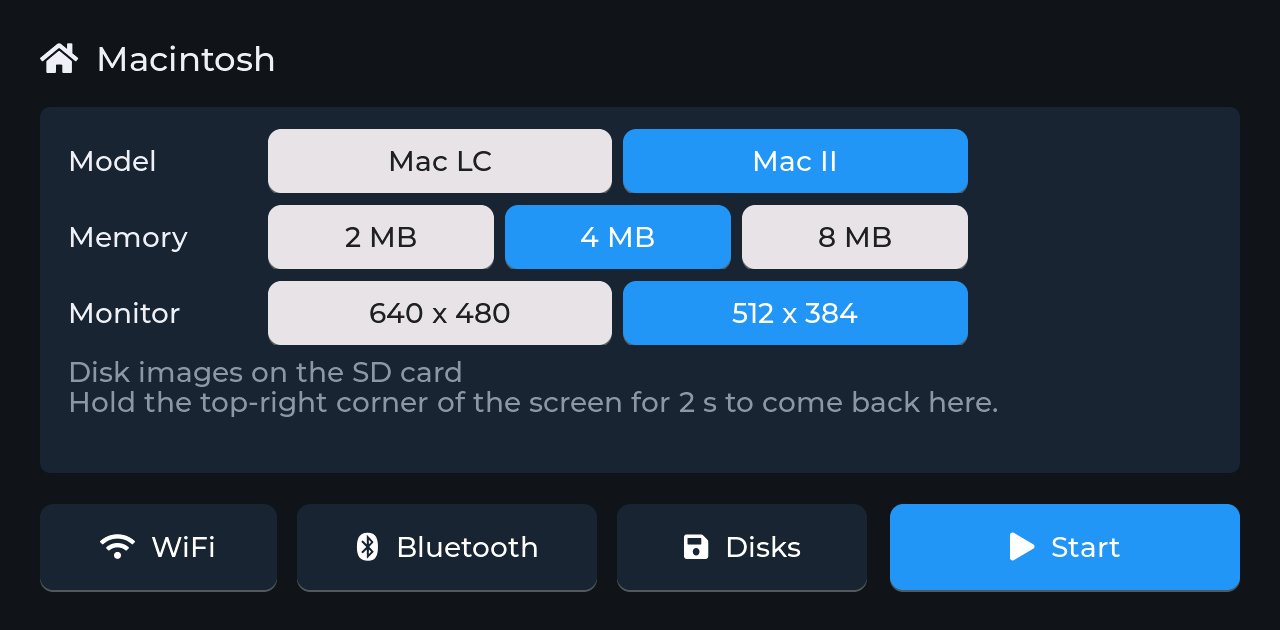
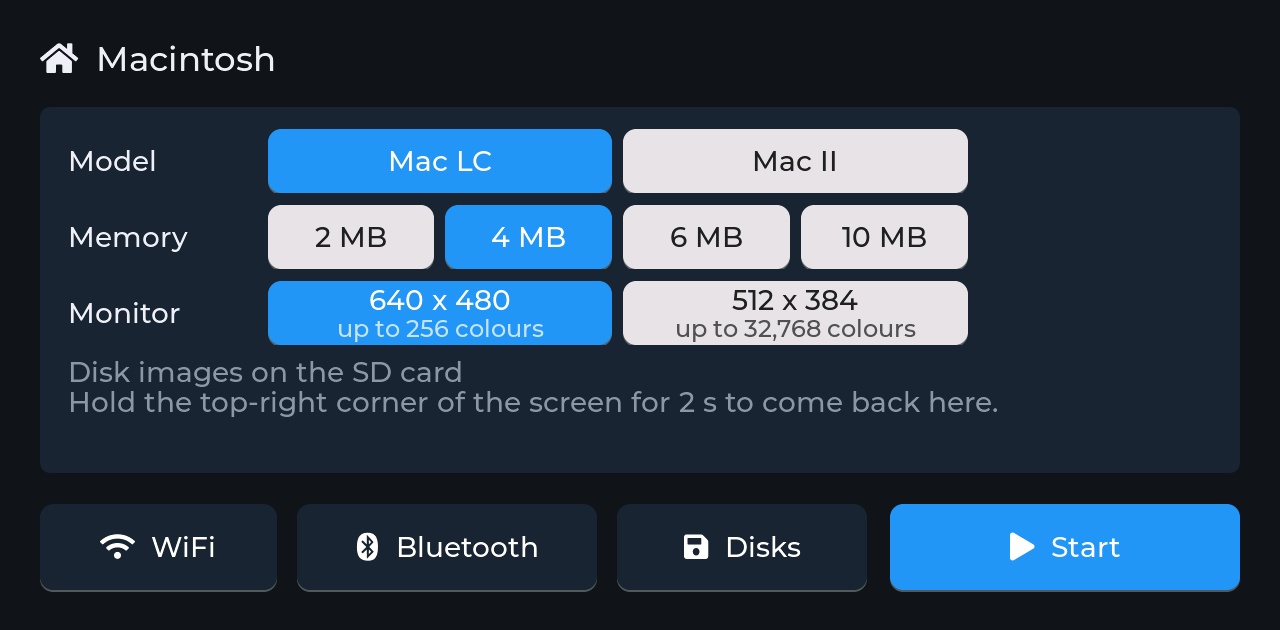
12-inch monitor in colour; the Monitor buttons say how many colours
- The ROMs keep the slot's video PRAM only while it matches the monitor:
  with the 12" monitor they reset the mode to black and white.
  mac_pram_monitor() writes the monitor's own values at every start.
- The setup screen's Monitor buttons have a second line with the colours
  each monitor gets on the model: LC 256 or 32,768, II 256
- README and setup screenshot to match

Changed region(s): [[0.1875, 0.181, 0.7812, 0.573]]

diff --git a/components/mac2/egret.c b/components/mac2/egret.c
@@ -126,27 +126,44 @@ void mac_pram_defaults(uint8_t *pram, mac_model_t model)
     pram[0x0F] = 'c';
     pram[0x01] = 0x80;
     pram[0x02] = 0x4F;
-    /* The video's slot PRAM as the ROM writes it, but in 256 colours ($83;
-     * $80 is black and white): the LC's built-in video (board $0029, the
-     * 13" monitor's sense 6 at $5A), the II's 8*24 card in slot $9 (board
-     * $0027). The ROM keeps it while the board (and monitor) match.
-     */
-    if (model == MAC_MODEL_LC) {
-        pram[0x57] = 0x29;
-        pram[0x58] = 0x83;
-        pram[0x59] = 0xA6;
-        pram[0x5A] = 0x06;
-    } else {
-        pram[0x47] = 0x27;
-        pram[0x48] = 0x83;
-        pram[0x49] = 0xA6;
-        pram[0x4A] = 0xA6;
-        pram[0x4C] = 0xFF;
-    }
+    mac_pram_monitor(pram, model, MAC_MONITOR_13);
     pram[0x78] = 0x00;                  /* startup disk: none chosen */
     pram[0x79] = 0x01;
     pram[0x7A] = 0xFF;
     pram[0x7B] = 0xFE;
+}
+
+/* The video's slot PRAM, as the ROM writes it for the monitor but in 256
+ * colours ($83; $80 is black and white): the LC's built-in video (board
+ * $0029, the monitor's sense at $5A: 6 the 13", 2 the 12"), the II's 8*24
+ * card in slot $9 (board $0027, $A6 or $A2 at $49-$4A). The ROM keeps it
+ * while the board and the monitor match; for another monitor it would
+ * start in black and white: then this one's entry, in colour.
+ */
+void mac_pram_monitor(uint8_t *pram, mac_model_t model, mac_monitor_t monitor)
+{
+    bool m12 = monitor == MAC_MONITOR_12;
+    if (model == MAC_MODEL_LC) {
+        uint8_t sense = m12 ? 0x02 : 0x06;
+        if (pram[0x57] != 0x29 || pram[0x5A] != sense) {
+            pram[0x56] = 0x00;
+            pram[0x57] = 0x29;
+            pram[0x58] = 0x83;
+            pram[0x59] = m12 ? 0xA2 : 0xA6;
+            pram[0x5A] = sense;
+        }
+    } else {
+        uint8_t id = m12 ? 0xA2 : 0xA6;
+        if (pram[0x47] != 0x27 || pram[0x4A] != id) {
+            pram[0x46] = 0x00;
+            pram[0x47] = 0x27;
+            pram[0x48] = 0x83;
+            pram[0x49] = id;
+            pram[0x4A] = id;
+            pram[0x4B] = 0x00;
+            pram[0x4C] = 0xFF;
+        }
+    }
 }
 
 static void pram_write(uint8_t address, uint8_t value)

diff --git a/main/main.c b/main/main.c
@@ -288,6 +288,15 @@ enum { CHOICE_MODEL, CHOICE_MEMORY, CHOICE_MONITOR, CHOICES };
 
 static const char *const model_names[] = { "Mac LC", "Mac II", "" };
 static const char *const monitor_names[] = { "640 x 480", "512 x 384", "" };
+/* The colours each monitor gets: the LC's 512 KB of VRAM holds 16 bits a
+ * pixel at 512 x 384, 8 at 640 x 480; the II's card 8 at both
+ */
+static const char *const monitor_names_lc[] = {
+    "640 x 480\nup to 256 colours", "512 x 384\nup to 32,768 colours", "",
+};
+static const char *const monitor_names_ii[] = {
+    "640 x 480\nup to 256 colours", "512 x 384\nup to 256 colours", "",
+};
 
 static int model_get(void)
 {
@@ -342,11 +351,14 @@ static const emu_choice_t choices[CHOICES] = {
     { "Monitor", monitor_names, monitor_get, monitor_set, false },
 };
 
-/* The Memory row's buttons follow the model */
+/* The Memory and Monitor rows' buttons follow the model */
 static const char *const *choice_names(int i)
 {
     if (i == CHOICE_MEMORY) {
         return settings.model == MAC_MODEL_II ? ram_names_ii : ram_names_lc;
+    }
+    if (i == CHOICE_MONITOR) {
+        return settings.model == MAC_MODEL_II ? monitor_names_ii : monitor_names_lc;
     }
     return NULL;
 }

diff --git a/components/mac2/include/mac.h b/components/mac2/include/mac.h
@@ -89,6 +89,11 @@ typedef struct {
  */
 void mac_pram_defaults(uint8_t *pram, mac_model_t model);
 
+/* The video's parameter RAM for this monitor: kept if it is for it (its
+ * depth too), else the monitor's in 256 colours (mac_init does it)
+ */
+void mac_pram_monitor(uint8_t *pram, mac_model_t model, mac_monitor_t monitor);
+
 /* Name of a known ROM ("Macintosh LC", "Macintosh II") and its model; NULL if the image
  * isn't a ROM this emulator knows how to patch
  */

diff --git a/components/mac2/mac.c b/components/mac2/mac.c
@@ -386,6 +386,7 @@ bool mac_init(const mac_config_t *config)
         mac_pram_defaults(mac.pram, mac.model);
         mac.pram_dirty = true;
     }
+    mac_pram_monitor(mac.pram, mac.model, config->monitor);
     mac.pram_changed = config->pram_changed;
     mac.disk_ejected = config->disk_ejected;
 

diff --git a/README.md b/README.md
@@ -58,7 +58,7 @@ which also holds the 68020 core.
   busy on the LC, 64% on the II
 - **Macintosh LC**: 2, 4, 6 or 10 MB (the board's 2 MB and a SIMM pair);
   the V8's built-in video at 640×480 in black and white up to 256 colours,
-  or 512×384 up to thousands; Egret for the ADB keyboard and mouse, the
+  or 512×384 up to thousands (32,768); Egret for the ADB keyboard and mouse, the
   clock and parameter RAM; the V8's Apple Sound Chip; no FPU, as a stock LC
 - **Macintosh II**: 2, 4 or 8 MB; a **68881** FPU; two VIAs (ADB, the clock,
   the slot interrupts); the original Apple Sound Chip with its four-voice
@@ -66,7 +66,9 @@ which also holds the 68020 core.
   Card 8•24** in slot $9, found and driven by its own ROM (black and white
   up to 256 colours)
 - A 13-inch (640×480) or 12-inch (512×384) monitor, chosen on the setup
-  screen; 256 colours by default
+  screen, whose buttons say how many colours each one gets on the model
+  (LC: up to 256 or 32,768; II: up to 256 on both); 256 colours by default
+  on both
 - The startup chime, system beeps and sound through the Apple Sound Chip,
   on the Tab5's speaker
 - The clock is set from the internet; each model's parameter RAM (the
@@ -171,8 +173,8 @@ Tab5 is the only target: a build for any other stops with a message.
    happy Mac, then System 7's desktop in 256 colours.
 
 <p align="center">
-  <img src="docs/images/tab5-setup.png" width="70%" alt="The Tab5's setup screen: model Mac LC or Mac II, the Mac II's memory 2, 4 or 8 MB, monitor 640 x 480 or 512 x 384; WiFi, Bluetooth, Disks and Start buttons">
-  <br><sub>The setup screen on the Tab5, with the Mac II, 4 MB and the 12-inch monitor chosen (its status lines left out)</sub>
+  <img src="docs/images/tab5-setup.png" width="70%" alt="The Tab5's setup screen: model Mac LC or Mac II, the Mac LC's memory 2, 4, 6 or 10 MB, monitor 640 x 480 (up to 256 colours) or 512 x 384 (up to 32,768 colours); WiFi, Bluetooth, Disks and Start buttons">
+  <br><sub>The setup screen on the Tab5, with the Mac LC, 4 MB and the 13-inch monitor chosen; under each monitor, its colours on that model (the status lines left out)</sub>
 </p>
 
 ## Using it
@@ -277,8 +279,10 @@ patches, debugging options and the lessons learned along the way.
 - New. On the Tab5, both machines start System 7.5.5 and run it at full
   speed in 256 colours at 640×480; touch, the pointer and the ADB keyboard
   work. Not tried by hand yet: sound on the speaker, a Bluetooth keyboard
-  and mouse, the Tab5 Keyboard; hardly tried: the 12-inch monitor and other
-  colour depths.
+  and mouse, the Tab5 Keyboard. The 12-inch monitor and thousands of
+  colours are checked in the desktop build only: both machines start in
+  256 colours on either monitor, and the LC's ROM takes thousands at
+  512×384 and turns them down at 640×480, as on a real LC.
 - The CPU's pace is an estimate: each 68020 cycle is counted twice, for a
   16-bit path to memory; it hasn't been calibrated against a real LC or II.
 - No SCSI devices, serial ports, AppleTalk, printer, PDS cards or other

diff --git a/CLAUDE.md b/CLAUDE.md
@@ -62,7 +62,9 @@ runtime's profiler), `R <model 0|1> <ram MB> [monitor 0|1]` restart as the
 LC (2/4/6/10 MB) or the II (2/4/8 MB) with the 13" or 12" monitor, `n`
 interrupt switch. Touches on the Tab5: the picture is 960x720 at x=160
 (a Mac pixel is 1.5 panel pixels); setup screen Start `t 1065 637`, Model
-`t 440|795 251`.
+`t 440|795 251`. The Memory and Monitor rows follow the model
+(`choice_names()`); the Monitor buttons' second line is the colours each
+monitor gets: LC up to 256 at 640x480, 32,768 at 512x384; II 256 at both.
 
 ## Layout
 
@@ -242,6 +244,14 @@ The Mac II (`ii.c`, `jmfb.c`, `adb_via.c`, `rtc.c`):
   and $FF at $4C, without which the ROM reset the mode). The defaults ask
   for 256 colours. Millions of colours ($84) needs 32-bit addressing (the
   packed view is over 1 MB): the ROM refused it in 24-bit mode.
+- **The ROM keeps that PRAM only while it matches the monitor**: with the
+  12" monitor and the 13" values (LC sense $5A = 6, II $49/$4A = $A6), it
+  reset the mode to $80, and the 12" monitor came up in black and white.
+  `mac_pram_monitor()` (`egret.c`, from every `mac_init()`) writes the
+  monitor's own values when they don't match: LC $A2 and sense 2, II $A2
+  $A2. A depth the ROM can't give is reset to $80 the same way (how the
+  setup screen's colour counts were checked: $84 = 16 bits kept on the LC
+  at 512x384, reset at 640x480 and on the II at both).
 
 ## Testing
 
@@ -270,8 +280,13 @@ The Mac II (`ii.c`, `jmfb.c`, `adb_via.c`, `rtc.c`):
   ~64%. A double tap (`t` touches) opens a disk, `P x y 0` moves the
   pointer, Return (`k 24`) closes a dialog (both models' ADB), the II's
   menu bar clock shows the time. Not checked by ear or hand yet: sound,
-  Bluetooth, the Tab5 Keyboard; not tried: the 12" monitor, other colour
-  depths through the Monitors control panel.
+  Bluetooth, the Tab5 Keyboard; not tried on the board: the 12" monitor,
+  other colour depths through the Monitors control panel.
+- Checked on the host (2026-10-18): the 12" monitor starts in 256 colours
+  on both models (before the PRAM fix: black and white); the LC at 512x384
+  in thousands (PRAM $58 = $84) draws its colours right.
+- Checked on the Tab5 (2026-10-18): the setup screen's two-line Monitor
+  buttons for the LC and the II (`docs/images/tab5-setup.png`).
 
 ## Open items
 
